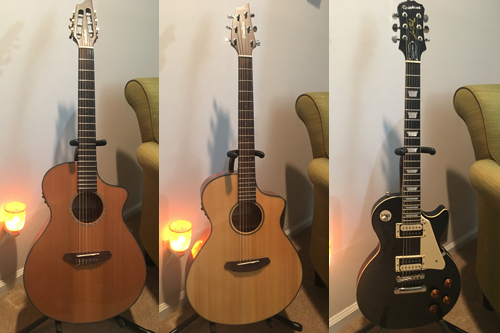
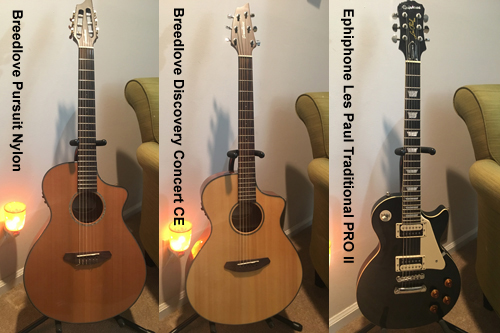
guitars

Changed region(s): [[0.66, 0.03, 0.72, 0.8108], [0.33, 0.03, 0.39, 0.6907], [0.0, 0.03, 0.06, 0.5105]]

diff --git a/intro/personal.html b/intro/personal.html
@@ -145,13 +145,50 @@ li a:hover:not(.active) {
                 <div class="image">
                 <img src="../pictures/ibanez.jpg" alt="Ibanez Montage and AF91">
             </div>
+                <h4>Ibanez Mongage MSC500</h4>
                 <p>The Ibanez Montage Series Cutaway Acoustic-Electric is a revolutionary guitar that has two acoustic sounds, 2 electric sounds, mix capability, onboard reverb, chorus, distortion, phase canceling, dual notch filter and tuner. These groundbreaking, innovative electronics are possible with the combination of the B-Band® UST Acoustic Pickup, Ibanez AP9 Electric pickup, and the Ibanez HBP Multi-function Preamp with Onboard Tuner. Controls are conveniently mounted on the face of the upper bout. Operates on 4 AA batteries and has a 1⁄4" balanced output.</p> 
 
 <p>Montage series guitars have a sleek, comfortable cutaway semi-jumbo body style and the exclusive Ibanez adjustable mahogany F.A.S.T. (Fast Action Set-Up Technology) lets the player quickly setup the action to their personal playing style. Other appointments include a rosewood fingerboard and bridge, Advantage™ bridge pins, and silver die-cast tuners.</p>
+                <h4>Ibanez Artcore AFJ91</h4>
+                <p>Artcore players represent a wide range of musical genres, but the Ibanez Artcore Expressionist AFJ191 Hollowbody Electric Guitar is dedicated to the jazz guitarist. That's probably obvious if you know your old school jazz boxes: wooden bridges, narrow frets. It features a spruce top and flamed maple back & sides for pure Jazz tone. The Super 58 Custom pickup delivers the smooth, nuanced tones with just enough growl for blues. The 20-fret fretboard produces that authentically warm jazz tone and to top it off: the AFJ191 comes equipped with high-quality flatwound strings.</p>
                   <div class="image">
                 <img src="../pictures/breedlove.jpg" alt="Breedlove Concert and Pursuit and Ephiphone Les Paul Traditional PRO II">
             </div>
-                <p>About Breedlove and Ephiphone</p>
+                <h4>Breedlove Discovery Concert CE</h4>
+                <p>The Breedlove Discovery Concert CE Acoustic Guitar offers the company's most popular body model with the features and appointments today's players demand. Bringing together a mahogany back and sides with a solid spruce top, Breedlove tops this guitar off with a slick cutaway design allowing easy access to upper frets. Finished with a high gloss on the top spruce and side mahogany portions, the Concert CE's features onboard Fishman electronics.
+                    
+                    The Breedlove Pinless Bridge helps maintain the integrity of the top by eliminating the need for six drilled string holes. The fewer holes in your soundboard, the more evenly the sound wave can move across the interior, without any loss of energy. The Breedlove Pinless Bridge also provides a gentler string-break angle from the bridge to the top of the saddle, reducing saddle strain. This innovative bridge also makes string changes a breeze. Plus, you'll never again have to worry about lost, worn-out, or broken bridge pins.
+                    
+                    Breedlove guitars feature a slimmer neck profile, which enables comfortable play, even with smaller hands. The hand-rubbed, semi-gloss Breedlove neck finish also contributes to ideal playability. The labor-intensive finish process includes precise finish coat applications, fine sanding, and hand buffing and rubbing.</p>
+                <h4>Breedlove Pursuit Nylon</h4>
+                <p>Breedlove Pursuit Nylon- For the up-and-coming musician seeking Breedlove's distinctively crafted sound in a great playing, affordable acoustic-electric nylon-string guitar. 
+
+The Breedlove Pursuit Nylon is a great sounding acoustic-electric guitar that goes beyond the design of standard classical-style guitars. Utilizing a radiused fretboard and slightly smaller nut width than traditional builds, the Pursuit Nylon allows for a seamless transition from steel-string instruments. Played plugged in or acoustic, this nylon-string guitar will fit into all your musical scenarios.
+
+The Concert is Breedlove’s most popular body shape, favored by players because it is well-balanced, compact, comfortable to play, and offers all the qualities of a great sounding guitar. It generates a wonderfully articulate range of tone with an ample low end that is never boomy, but always felt. The Concert works well when played fingerstyle, as vocal accompaniment, or at a full strum. 
+
+The top is western red cedar is a wonderful wood for fingerstyle players. It is softer than spruce, so it requires a careful and accurate touch, and it rewards with sweet, extended harmonic content. 
+
+The back and sides are sapele, which is similar both visually and tonally to dense mahogany, but both darker and harder, giving it a strong visual presence and a bit more upper-harmonic content and low-end clarity. It's a good choice for many sizes and shapes, and works well for strumming and fingerstyle. 
+
+For centuries, one of the most difficult components of crafting guitars has been relieving the stress on the bridge without overbuilding the top and dampening sound. Originally invented over 20 years ago, the Breedlove Bridge Truss is still one of the most innovative truss systems on the market today. Refined and improved over the years, the Breedlove Bridge Truss relieves stress on the top, allowing use of a thinner, graduated top, providing for greater sustain and balance, more expression from the instrument, and greater structural integrity – all while adding longevity to the instrument. 
+
+Electronics
+The Fishman ISYS-301 USB Preamp System includes a side-mounted preamp with rotary controls for volume, tone (bass/treble), and phase; a Fishman Sonicore pickup; onboard easy-to-read 7-segment LED tuner; and a combination battery box with 1/4"" output. 
+ 
+Lustrous full-gloss finish, pinless Breedlove bridge and Tortoise binding: an attractive package that will make you proud to play this guitar. 
+
+Breedlove’s comprehensive quality control process provides the player with an instrument that will play perfectly right out of the box. Prior to shipment, every Breedlove instrument undergoes a rigorous 25-to-30-point inspection in Bend, Oregon by Breedlove’s expert U.S. quality control team. They start with a visual inspection: checking aesthetic and structural elements of the body and components for flaws. Next, each guitar is tuned and undergoes a play test, where craftspeople check nut height, relief, action, and string height. Based on the results of the play test, the guitar is adjusted for maximum playability. Finally, each instrument is buffed and polished by hand with painstaking attention to detail. Once the instrument has passed inspection, a signed QC sticker is placed, and the instrument is carefully packed and shipped.</p>
+                <h4>Epiphone Les Paul Traditional PRO II</h4>
+                <p>Epiphone introduces the new Les Paul Traditional PRO-II featuring the ultimate combo of Alnico Classic PRO and ProBucker humbuckers with coil-splitting for an incredible range of tones. Plus a 15 dB boost switch along with new color finishes.
+
+The new Les Paul Traditional PRO-II has the classic build and profile of all Les Pauls with a solid mahogany body and a traditional carved top. New color finishes include Ebony, Desertburst, Ocean Blue, Vintage Sunburst and Wine Red. The solid mahogany neck has a 1960's SlimTaper “D” profile with a 24.75 in. scale and is hand-fitted and glued into the body so the entire guitar resonates as a single piece of wood. A "worn" type finish on the back of the neck and body add to the lived-in feel. The neck has a rosewood fingerboard with 22 medium jumbo frets, single-ply cream binding, and mother-of-pearl trapezoid inlays.  
+
+The Les Paul Traditional PRO-II is powered by Epiphone’s most popular humbuckers featuring newly tooled, USA-style bobbins. In the neck position is an Alnico Classic PRO with Alnico-II magnets with open zebra coils for a warm, thick, vintage tone. The Alnico Classic PRO is paired with an Epiphone ProBucker-3 at the bridge. The ProBucker-3 is inspired by Gibson's classic BurstBucker-3 and features unevenly wound coils and Alnico-II magnets that replicate the tone of "Patent Applied For" humbuckers found in priceless vintage, '50s-era Les Pauls.
+
+Controls use classic “Top Hat” Volume and Tone knobs which have push/pull potentiometers allowing you to coil-split each pickup for single-coil sounds. Combined with the 3-way toggle, you can get six unique sounds from one great Les Paul guitar.  You can also pull up on the bridge pickup’s tone knob for an additional 15 dB boost. The active Boost control is powered by a 9-volt battery, which is easily accessible at the back of body.   
+The Les Paul Traditional PRO-II comes with legendary Grover machine heads with an 18:1 tuning ratio, a traditional cream colored pickguard, solid nickel LockTone Tune-O-Matic bridge and stopbar tailpiece, and Epiphone StrapLocks. An optional case is also available.
+</p>
                 <hr>
                 <h3>Cars</h3>
                 <p>Another interest I have is driving cars.  My current favorite make of car is a SAAB.  I have own five and am currently driving my second favorite. My first favorite was a 1989 SAAB 900 Turbo.</p>
